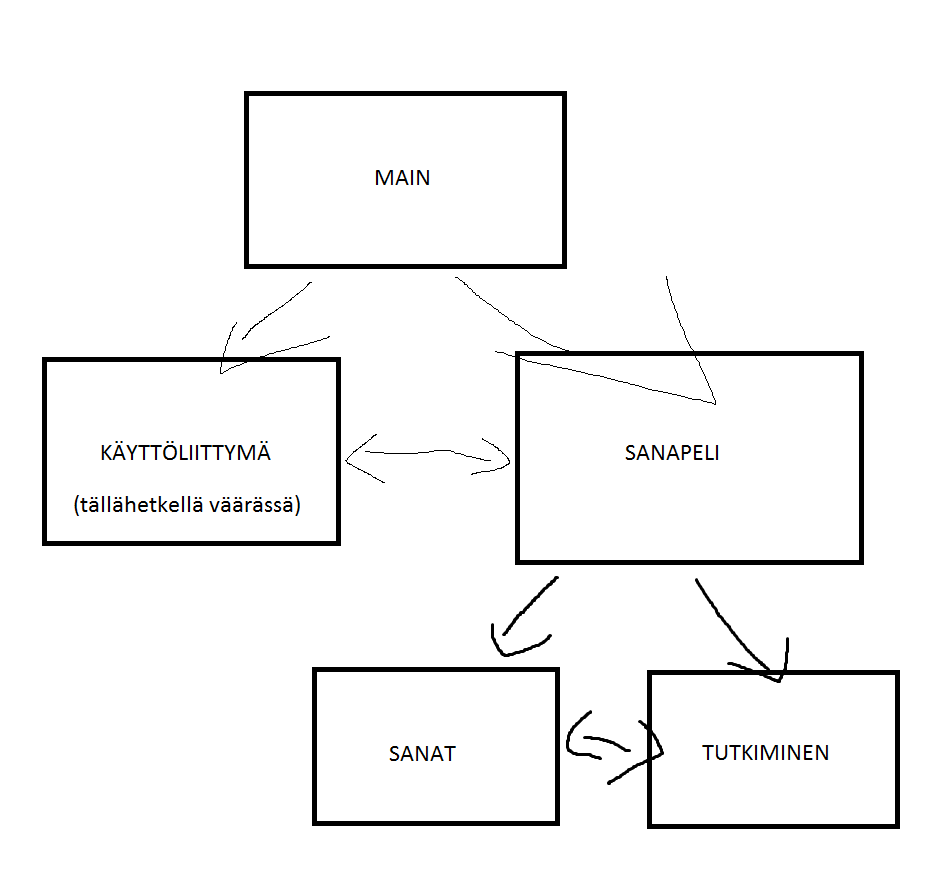
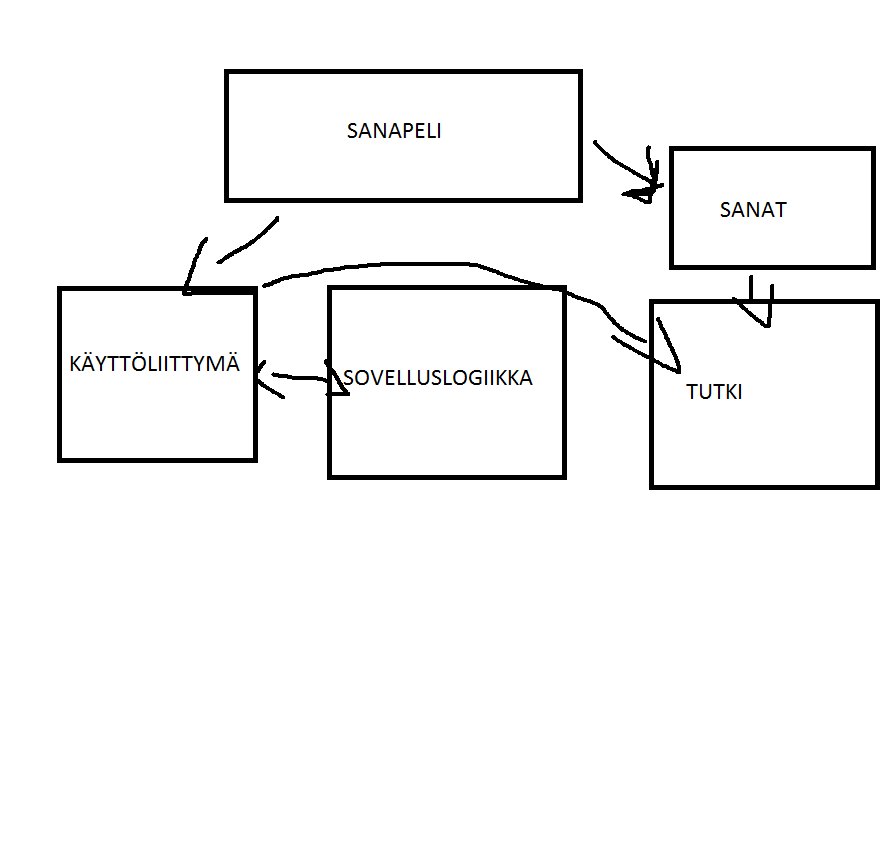
es

diff --git a/projekti/Sanapeli/src/sovelluslogiikka/Sovelluslogiikka.java b/projekti/Sanapeli/src/sovelluslogiikka/Sovelluslogiikka.java
@@ -1,0 +1,13 @@
+/*
+ * To change this template, choose Tools | Templates
+ * and open the template in the editor.
+ */
+package sovelluslogiikka;
+
+/**
+ *
+ * @author BRZM
+ */
+public class Sovelluslogiikka {
+    
+}
